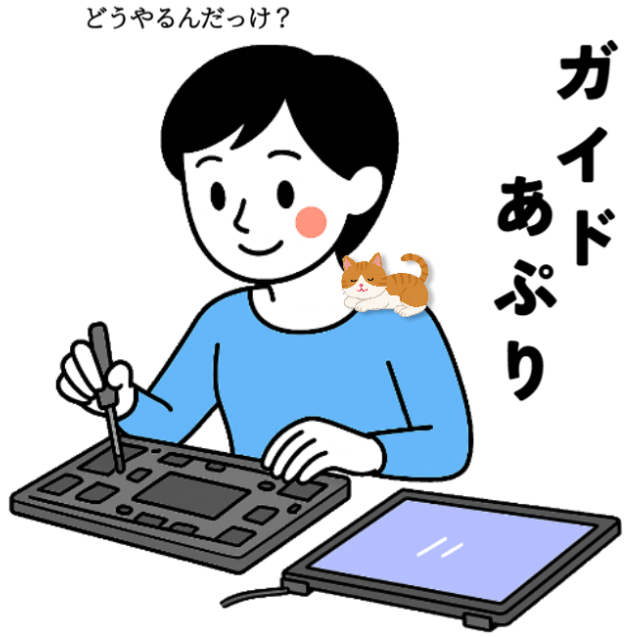
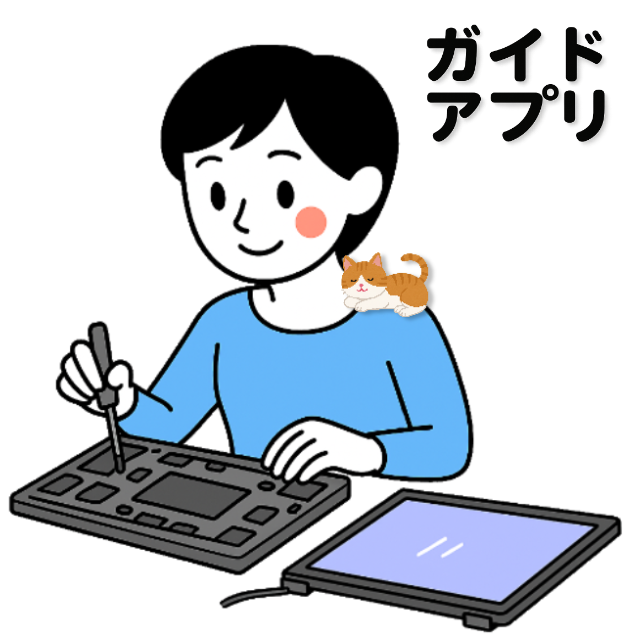
Update guide-title3.png for improved visual quality

diff --git a/index.html b/index.html
@@ -284,10 +284,10 @@
   </script>
   -->
   
-  <!-- 설명: 위의 JavaScript 코드는 chromebookList 배열을 자동으로 HTML로 변환하는 코드입니다.
+  <!-- 설명: 위의 JavaScript 코드는 chromebookList 배열을 자동으로 HTML로 변환하는 코드.
        forEach 반복문으로 각 모델의 정보를 읽어서 li 요소를 만들고, 
-       available 속성에 따라 클래스와 상태를 자동으로 설정했습니다.
-       지금은 간단한 HTML로 변경했지만, 나중에 공부할 때 참고하세요. -->
+       available 속성에 따라 클래스와 상태를 자동으로 설정했.
+       지금은 간단한 HTML로 변경했지만, 나중에 공부할 때 참고 -->
 
 </body>
 </html>
